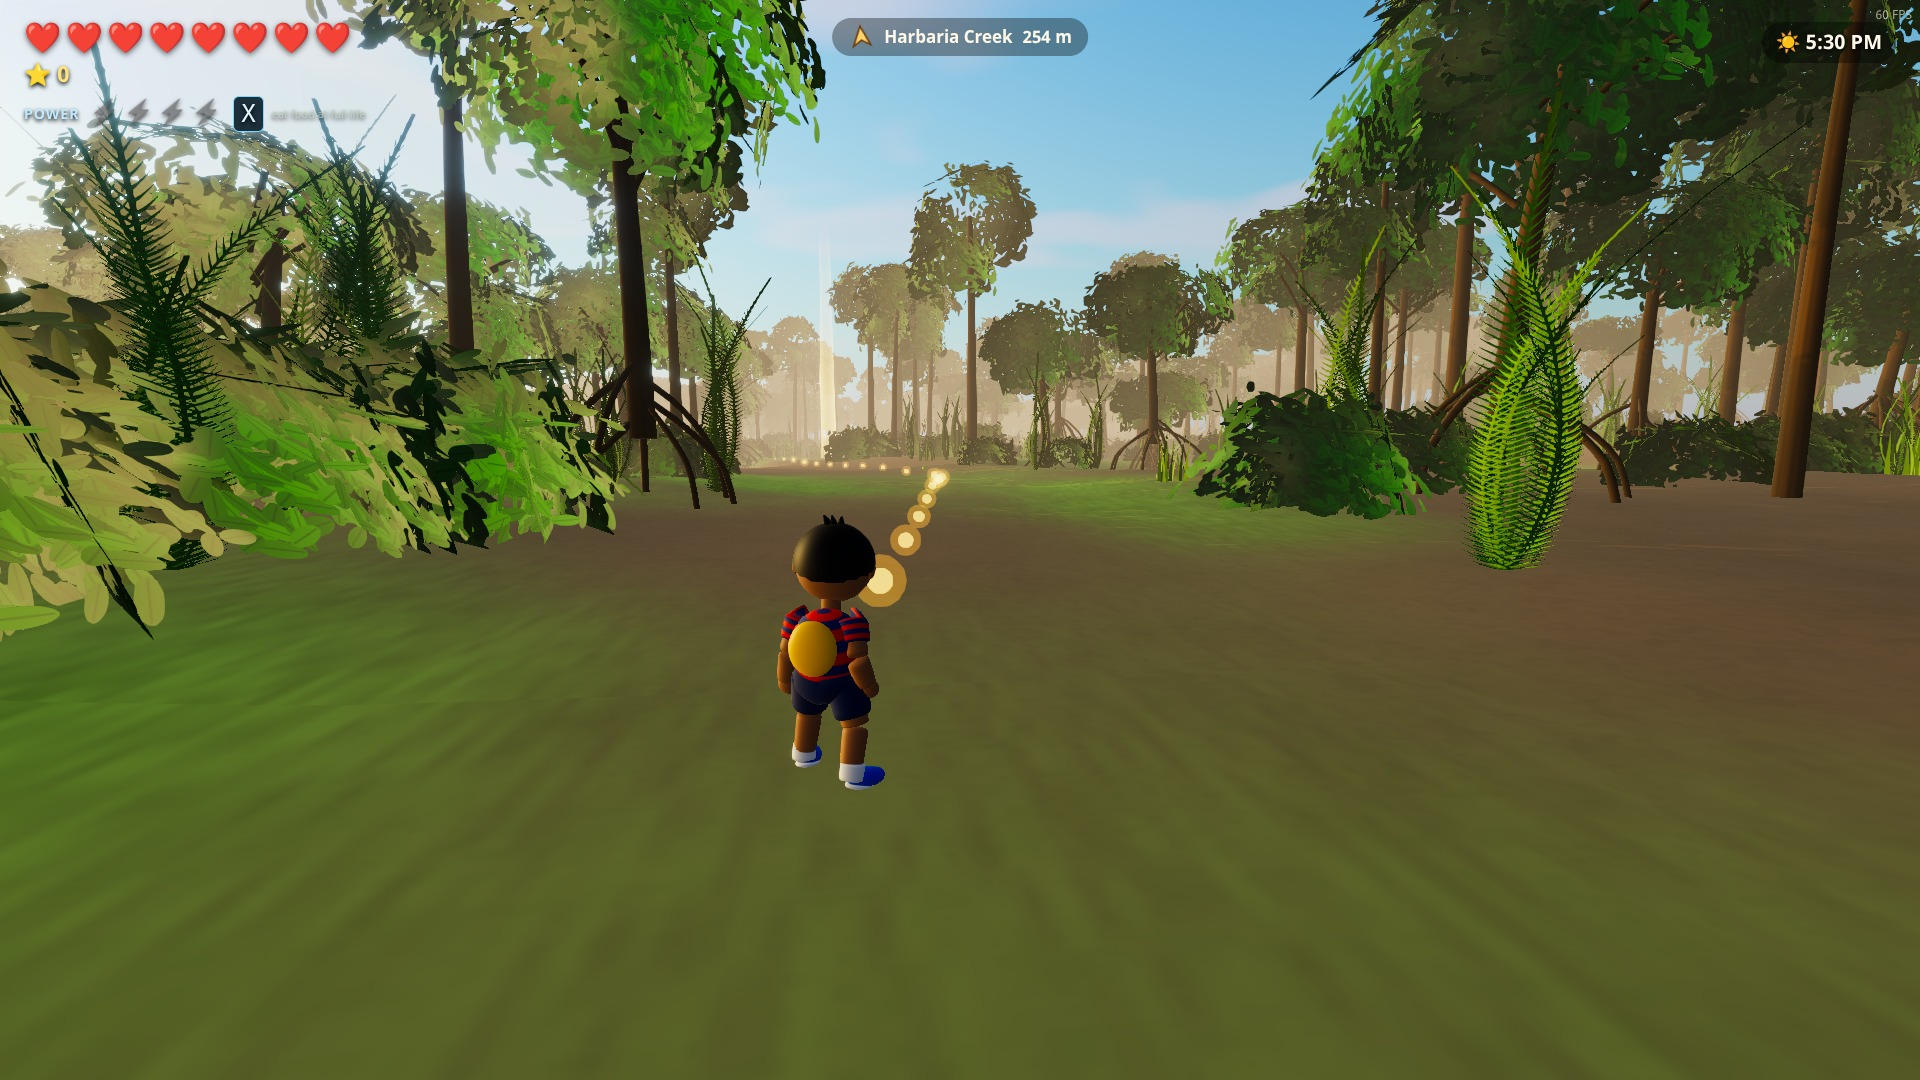
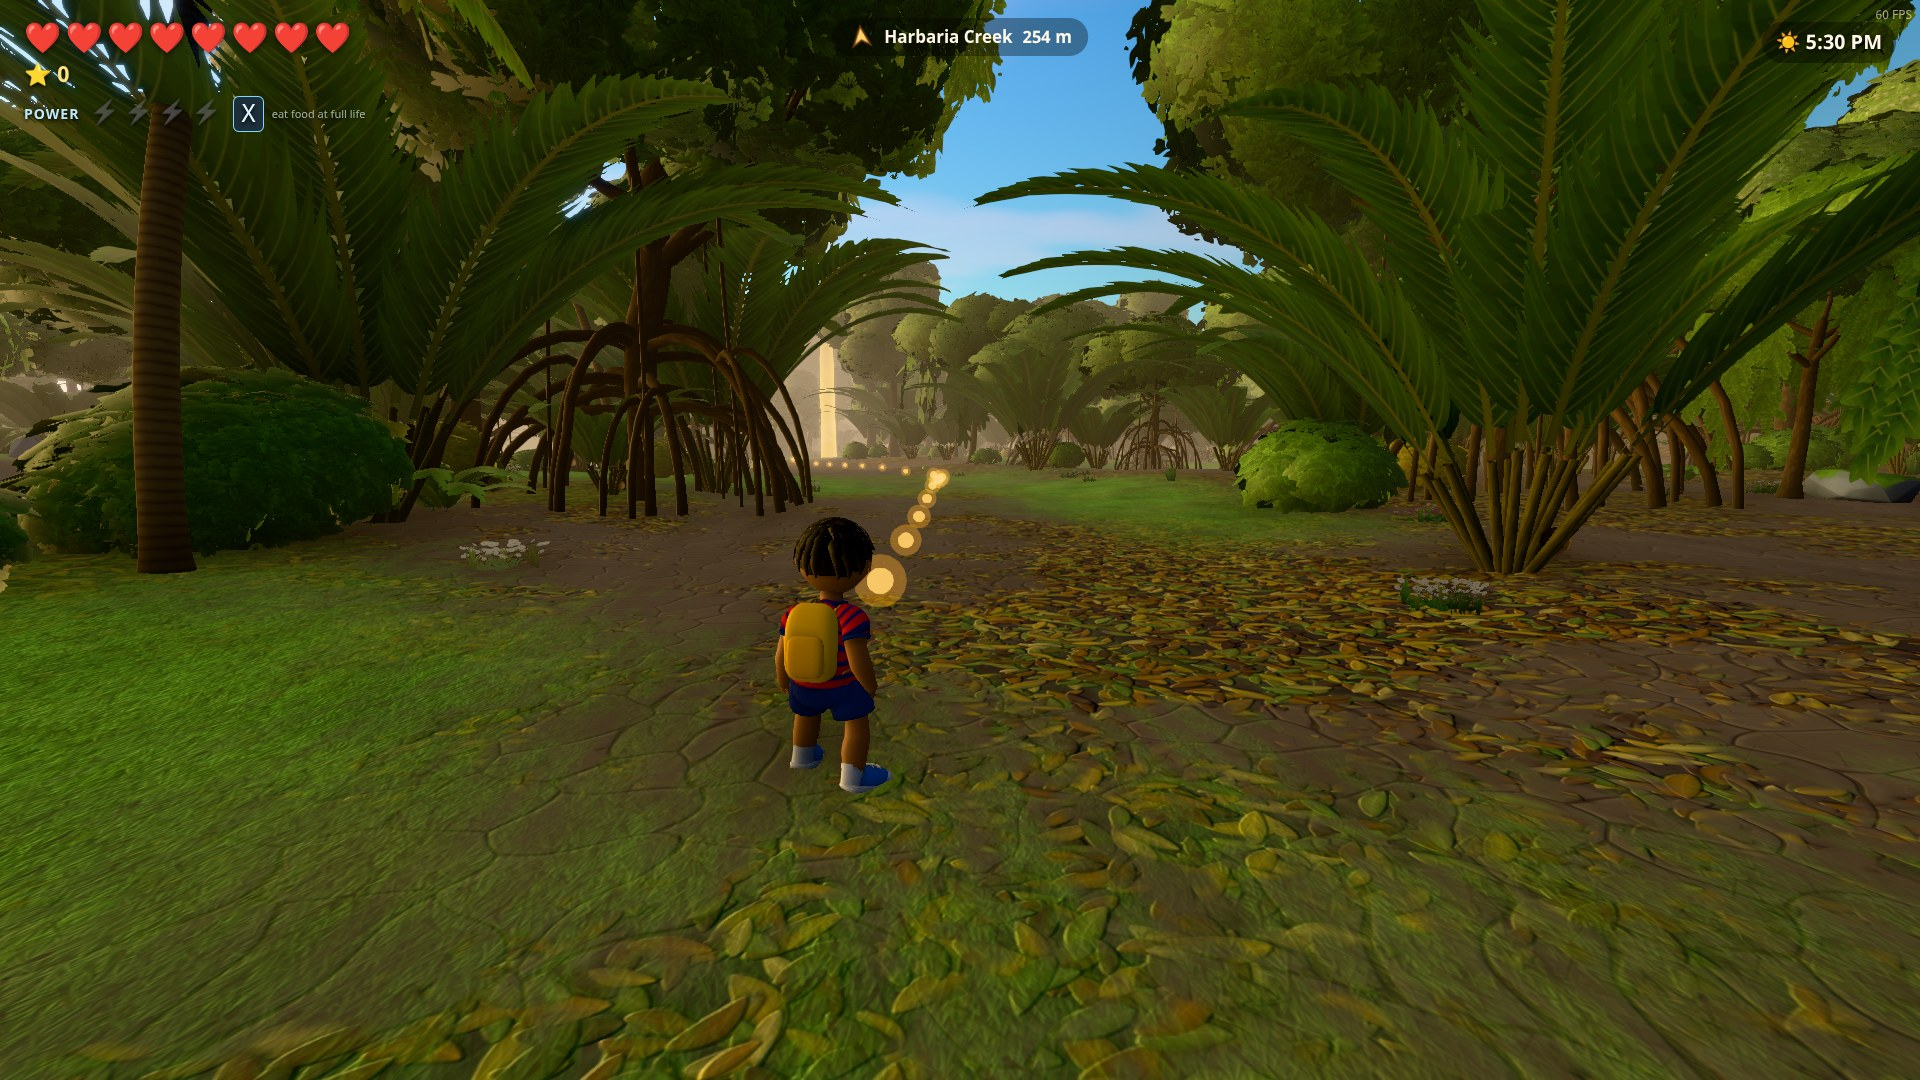
0.2.0: new Blender graphics; download links, PC requirements, new screenshots

diff --git a/README.md b/README.md
@@ -4,15 +4,15 @@
 
 **A 3D cartoon adventure in the Sundarbans.** Published by **[Abacus IT](https://abacusitbd.com)**, Dhaka, Bangladesh.
 
-## ⬇ Download (version 0.1.3, free)
+## ⬇ Download (version 0.2.0, free) — new Blender graphics
 
-[![Download for Windows](https://img.shields.io/badge/Download-Windows%2010%2F11%20(.exe%2C%20121%20MB)-0078D6?style=for-the-badge&logo=windows&logoColor=white)](https://github.com/riadul/jungle-hero-sajid-download/releases/download/v0.1.3/JungleHeroSajid-Setup-0.1.3-x64.exe)
+[![Download for Windows](https://img.shields.io/badge/Download-Windows%2010%2F11%20(.exe%2C%20187%20MB)-0078D6?style=for-the-badge&logo=windows&logoColor=white)](https://github.com/riadul/jungle-hero-sajid-download/releases/download/v0.2.0/JungleHeroSajid-Setup-0.2.0-x64.exe)
 
 [![Get it from the Snap Store](https://img.shields.io/badge/Snap%20Store-Ubuntu%20%2F%20Linux-82BEA0?style=for-the-badge&logo=snapcraft&logoColor=white)](https://snapcraft.io/jungle-hero-sajid)
-[![Download AppImage](https://img.shields.io/badge/Download-Linux%20AppImage%20(145%20MB)-E95420?style=for-the-badge&logo=linux&logoColor=white)](https://github.com/riadul/jungle-hero-sajid-download/releases/download/v0.1.3/JungleHeroSajid-0.1.3-linux-x86_64.AppImage)
-[![Download .deb](https://img.shields.io/badge/Download-Ubuntu%2FDebian%20.deb%20(116%20MB)-A81D33?style=for-the-badge&logo=debian&logoColor=white)](https://github.com/riadul/jungle-hero-sajid-download/releases/download/v0.1.3/jungle-hero-sajid_0.1.3_amd64.deb)
+[![Download AppImage](https://img.shields.io/badge/Download-Linux%20AppImage%20(228%20MB)-E95420?style=for-the-badge&logo=linux&logoColor=white)](https://github.com/riadul/jungle-hero-sajid-download/releases/download/v0.2.0/JungleHeroSajid-0.2.0-linux-x86_64.AppImage)
+[![Download .deb](https://img.shields.io/badge/Download-Ubuntu%2FDebian%20.deb%20(160%20MB)-A81D33?style=for-the-badge&logo=debian&logoColor=white)](https://github.com/riadul/jungle-hero-sajid-download/releases/download/v0.2.0/jungle-hero-sajid_0.2.0_amd64.deb)
 
-**Windows:** open the downloaded `JungleHeroSajid-Setup-0.1.3-x64.exe` and follow
+**Windows:** open the downloaded `JungleHeroSajid-Setup-0.2.0-x64.exe` and follow
 the installer. If Windows shows *"Windows protected your PC"*, click
 **More info → Run anyway** (the installer isn't code-signed yet).
 
@@ -48,9 +48,21 @@ Dublar Char, Nilkamal, all the way to Hiron Point, where Baba is waiting.
 | **Linux (any distro)** | `JungleHeroSajid-<version>-linux-x86_64.AppImage`: `chmod +x` it and run |
 | **Ubuntu / Debian** | `sudo apt install ./jungle-hero-sajid_<version>_amd64.deb` |
 
-**System requirements:** 64-bit Windows 10/11 or Linux; 4 GB RAM (8 GB
-recommended); a graphics card with WebGL 2 (GTX 960 / RX 470 / Intel Iris Xe or
-better); 600 MB disk.
+## 💻 PC needed
+
+| | Minimum (Low preset) | Recommended (High, 60 FPS) |
+|---|---|---|
+| OS | Windows 10 64-bit / Ubuntu 22.04 64-bit | Windows 11 / Ubuntu 24.04 |
+| CPU | 4 cores, 2.5 GHz | 6 cores, 3 GHz |
+| RAM | 8 GB | 16 GB |
+| Graphics | GTX 1050 Ti / RX 570 / Intel Iris Xe, 4 GB, WebGL 2 | GTX 1660 / RTX 2060 / RX 6600 or better |
+| Disk | 1 GB free | 1 GB free |
+
+On a slower PC, open Settings → Graphics and choose **Low** (or turn
+Ambient occlusion off).
+
+**What's new in 0.2.0:** every model and texture rebuilt in Blender: a new
+forest, ground, water and sky, new Sajid and Baba, new animals and boats.
 
 ## Screenshots
 
